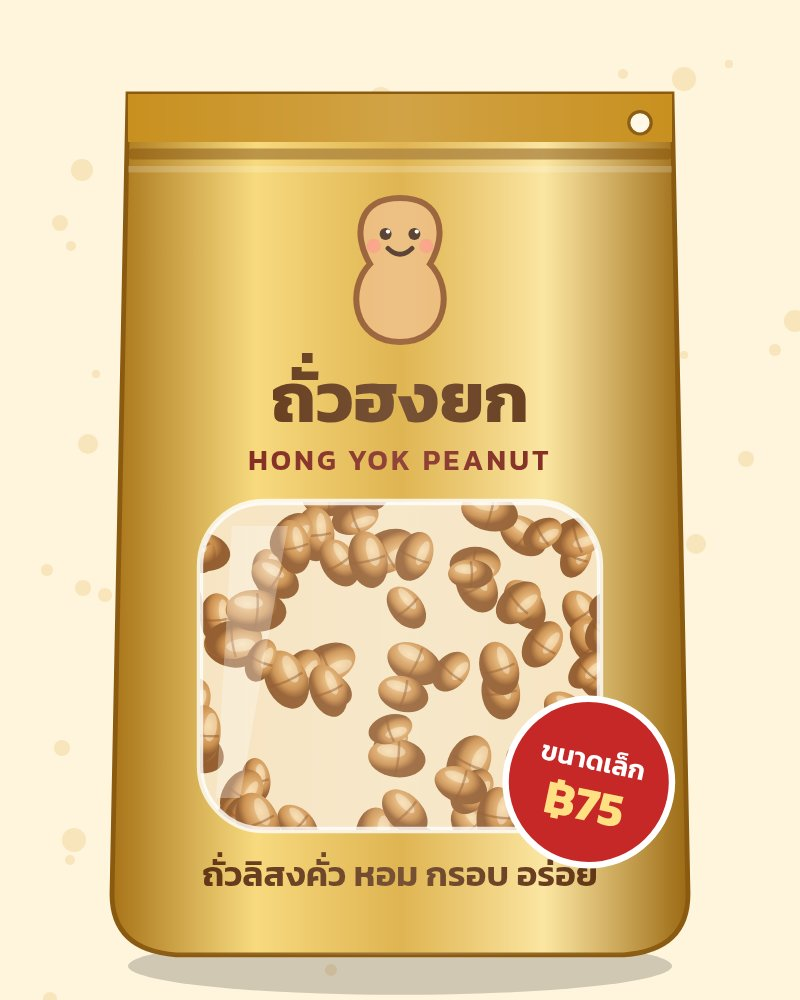
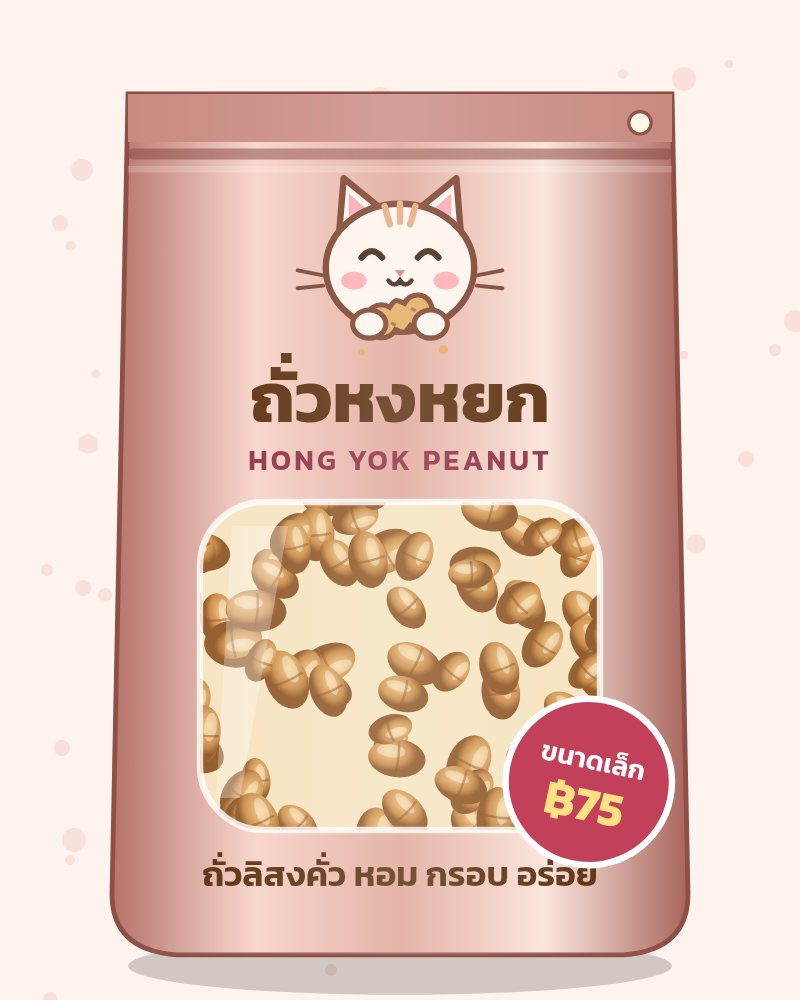
Rebrand ถั่วหงหยก, cat mascot, rose gold

diff --git a/index.html b/index.html
@@ -1,28 +1,28 @@
 <!doctype html><html lang="th"><head><meta charset="utf-8"><meta name="viewport" content="width=device-width,initial-scale=1">
-<title>ถั่วฮงยก · Hong Yok Peanut</title><meta property="og:title" content="ถั่วฮงยก · Hong Yok Peanut"><meta property="og:image" content="img/social-1080.jpg">
+<link rel="icon" href="img/favicon.png"><title>ถั่วหงหยก · Hong Yok Peanut</title><meta property="og:title" content="ถั่วหงหยก · Hong Yok Peanut"><meta property="og:image" content="img/social-1080.jpg">
 <style>
 @font-face{font-family:K;src:url(fonts/Kanit-Regular.ttf);font-display:swap}@font-face{font-family:K;font-weight:600;src:url(fonts/Kanit-SemiBold.ttf);font-display:swap}@font-face{font-family:K;font-weight:700;src:url(fonts/Kanit-Bold.ttf);font-display:swap}
-*{box-sizing:border-box}body{margin:0;font-family:K,sans-serif;background:#fff6e3;color:#4a250c;padding-bottom:90px}
-.w{max-width:480px;margin:auto;padding:0 16px}header{background:linear-gradient(#ffe6a8,#fff6e3);text-align:center;padding:18px 0 8px}
-h1{margin:6px 0 0;font-size:34px}.en{color:#a3241a;letter-spacing:3px;font-weight:600;font-size:14px}.tag{font-size:19px;margin:6px 0 10px}
-.hero{width:100%;height:auto;border-radius:20px;box-shadow:0 6px 18px #a0702033}h2{font-size:22px;margin:26px 0 10px}
-.card{display:flex;gap:12px;background:#fff;border-radius:18px;padding:12px;margin-bottom:12px;box-shadow:0 3px 10px #b07a2a22;align-items:center}
-.card img{width:96px;height:120px;object-fit:cover;border-radius:12px}.card .i{flex:1}.card b{font-size:18px}.pr{color:#c62828;font-size:22px;font-weight:700}
-.qty{display:flex;align-items:center;gap:8px;margin-top:6px}.qty button{width:44px;height:44px;border-radius:50%;border:0;background:#e9b13d;color:#4a250c;font:700 24px K}.qty span{min-width:26px;text-align:center;font-size:20px}
-.chips{display:flex;gap:8px;flex-wrap:wrap}.chip{padding:10px 14px;border-radius:30px;border:2px solid #e9b13d;background:#fff;font:16px K;color:#4a250c}.chip.on{background:#e9b13d}
-.note{font-size:13px;color:#8a6a4a}label{display:block;margin:10px 0 4px;font-weight:600}input,textarea{width:100%;padding:12px;border-radius:12px;border:2px solid #ecd2a0;font:16px K;background:#fff}
-.opt{display:flex;gap:8px}.opt label{flex:1;margin:0;background:#fff;border:2px solid #ecd2a0;border-radius:12px;padding:12px;font-weight:400}.opt input{width:auto}
-.box{background:#fff;border-radius:18px;padding:14px;box-shadow:0 3px 10px #b07a2a22}
+*{box-sizing:border-box}body{margin:0;font-family:K,sans-serif;background:#fff4f0;color:#5a2d1c;padding-bottom:90px}
+.w{max-width:480px;margin:auto;padding:0 16px}header{background:linear-gradient(#f9d6cf,#fff4f0);text-align:center;padding:18px 0 8px}
+h1{margin:6px 0 0;font-size:34px}.en{color:#8e2d45;letter-spacing:3px;font-weight:600;font-size:14px}.tag{font-size:19px;margin:6px 0 10px}
+.hero{width:100%;height:auto;border-radius:20px;box-shadow:0 6px 18px #a0605a33}h2{font-size:22px;margin:26px 0 10px}
+.card{display:flex;gap:12px;background:#fff;border-radius:18px;padding:12px;margin-bottom:12px;box-shadow:0 3px 10px #b0655a22;align-items:center}
+.card img{width:96px;height:120px;object-fit:cover;border-radius:12px}.card .i{flex:1}.card b{font-size:18px}.pr{color:#c2405a;font-size:22px;font-weight:700}
+.qty{display:flex;align-items:center;gap:8px;margin-top:6px}.qty button{width:44px;height:44px;border-radius:50%;border:0;background:#e3a596;color:#5a2d1c;font:700 24px K}.qty span{min-width:26px;text-align:center;font-size:20px}
+.chips{display:flex;gap:8px;flex-wrap:wrap}.chip{padding:10px 14px;border-radius:30px;border:2px solid #e3a596;background:#fff;font:16px K;color:#5a2d1c}.chip.on{background:#e3a596}
+.note{font-size:13px;color:#8a6a4a}label{display:block;margin:10px 0 4px;font-weight:600}input,textarea{width:100%;padding:12px;border-radius:12px;border:2px solid #efc7bf;font:16px K;background:#fff}
+.opt{display:flex;gap:8px}.opt label{flex:1;margin:0;background:#fff;border:2px solid #efc7bf;border-radius:12px;padding:12px;font-weight:400}.opt input{width:auto}
+.box{background:#fff;border-radius:18px;padding:14px;box-shadow:0 3px 10px #b0655a22}
 .btn{display:block;width:100%;padding:15px;border:0;border-radius:30px;font:600 18px K;margin-top:10px;text-align:center;text-decoration:none}
-.red{background:#c62828;color:#fff}.line{background:#06c755;color:#fff}.gray{background:#f1dfbb;color:#4a250c}
-.bar{position:fixed;left:0;right:0;bottom:0;background:#4a250c;color:#fff;padding:10px 16px;display:flex;justify-content:space-between;align-items:center;z-index:9}
-.bar a{background:#e9b13d;color:#4a250c;padding:12px 20px;border-radius:30px;text-decoration:none;font-weight:600}
+.red{background:#c2405a;color:#fff}.line{background:#06c755;color:#fff}.gray{background:#f6dcd5;color:#5a2d1c}
+.bar{position:fixed;left:0;right:0;bottom:0;background:linear-gradient(90deg,#8e5047,#b5736a);color:#fff;padding:10px 16px;display:flex;justify-content:space-between;align-items:center;z-index:9}
+.bar a{background:#e3a596;color:#5a2d1c;padding:12px 20px;border-radius:30px;text-decoration:none;font-weight:600}
 .why{display:grid;grid-template-columns:1fr 1fr;gap:10px}.why div{background:#fff;border-radius:16px;padding:12px;text-align:center}
 .rv{background:#fff;border-radius:16px;padding:12px;margin-bottom:8px}details{background:#fff;border-radius:14px;padding:12px;margin-bottom:8px}summary{font-weight:600}
-pre{white-space:pre-wrap;font:15px K;background:#fff8ea;padding:10px;border-radius:12px}.qr{width:150px;height:150px;margin:8px auto;border:3px dashed #c62828;display:flex;align-items:center;justify-content:center;text-align:center;border-radius:12px}
+pre{white-space:pre-wrap;font:15px K;background:#fff6f3;padding:10px;border-radius:12px}.qr{width:150px;height:150px;margin:8px auto;border:3px dashed #c2405a;display:flex;align-items:center;justify-content:center;text-align:center;border-radius:12px}
 footer{text-align:center;font-size:13px;color:#8a6a4a;padding:20px}
 </style></head><body>
-<header><div class="w"><h1>🥜 ถั่วฮงยก</h1><div class="en">HONG YOK PEANUT</div><p class="tag">ถั่วอร่อย เคี้ยวเพลิน หยิบได้ทั้งวัน</p><img class="hero" src="img/hero.jpg" alt="ถั่วฮงยก 3 ขนาด" width="1200" height="900"></div></header>
+<header><div class="w"><img src="img/logo.png" alt="" width="96" height="96" style="display:block;margin:auto"><h1>ถั่วหงหยก</h1><div class="en">HONG YOK PEANUT</div><p class="tag">ถั่วอร่อย เคี้ยวเพลิน หยิบได้ทั้งวัน</p><img class="hero" src="img/hero.jpg" alt="ถั่วหงหยก 3 ขนาด" width="1200" height="900"></div></header>
 <main class="w">
 <h2>เลือกขนาดได้เลย 👇</h2><div id="prods"></div>
 <h2>เลือกรสชาติ <span class="note">(ตัวอย่าง)</span></h2><div class="chips" id="flv"></div>
@@ -38,14 +38,14 @@ footer{text-align:center;font-size:13px;color:#8a6a4a;padding:20px}
 <div id="sum" class="box" style="display:none;margin-top:14px"><h2 style="margin-top:0">สรุปคำสั่งซื้อ ✅</h2><pre id="txt"></pre>
 <a class="btn line" id="lsh" target="_blank">ส่งออเดอร์ทาง LINE</a><a class="btn line" style="background:#04a648" href="https://line.me/R/ti/p/@YOUR_LINE_ID" target="_blank">แอดไลน์ร้าน @YOUR_LINE_ID</a><button class="btn gray" onclick="cp()">📋 คัดลอกข้อความออเดอร์</button>
 <p class="note">ส่งข้อความนี้ให้ร้านทาง LINE แล้วรอร้านยืนยันยอดและค่าส่งนะคะ · สินค้าใน TikTok Shop ใช้รูปและราคาเดียวกันนี้</p></div>
-<h2>ทำไมต้องถั่วฮงยก?</h2><div class="why"><div>🔥<br>คั่วใหม่ทุกวัน</div><div>🏡<br>สูตรทำเองที่บ้าน</div><div>😋<br>หอม กรอบ มัน</div><div>🛍<br>ถุงซิปล็อก เก็บง่าย</div></div>
+<h2>ทำไมต้องถั่วหงหยก?</h2><div class="why"><div>🔥<br>คั่วใหม่ทุกวัน</div><div>🏡<br>สูตรทำเองที่บ้าน</div><div>😋<br>หอม กรอบ มัน</div><div>🛍<br>ถุงซิปล็อก เก็บง่าย</div></div>
 <h2>รีวิวจากลูกค้า <span class="note">(ตัวอย่าง)</span></h2>
 <div class="rv">⭐⭐⭐⭐⭐ “กรอบมาก กินเพลินจนหมดถุง” — คุณเอ</div><div class="rv">⭐⭐⭐⭐⭐ “ถุงทองสวย ซื้อเป็นของฝากได้เลย” — คุณบี</div><div class="rv">⭐⭐⭐⭐⭐ “หอมเกลือกำลังดี ไม่เค็มเกิน” — คุณแนน</div>
 <h2>คำถามที่พบบ่อย <span class="note">(ตัวอย่าง)</span></h2>
 <details><summary>เก็บได้นานแค่ไหน?</summary>ปิดซิปให้สนิท เก็บในที่แห้ง ประมาณ ___ เดือน</details>
 <details><summary>ส่งกี่วันถึง?</summary>ส่งภายใน 1–2 วันทำการ ค่าส่งร้านจะแจ้งอีกครั้ง</details>
 <details><summary>สั่งจำนวนมาก/ของชำร่วยได้ไหม?</summary>ได้เลย ทักไลน์ร้านเพื่อขอราคาพิเศษ</details>
-</main><footer>© ถั่วฮงยก · Hong Yok Peanut — เว็บตัวอย่าง (Mockup)</footer>
+</main><footer>© ถั่วหงหยก · Hong Yok Peanut — เว็บตัวอย่าง (Mockup)</footer>
 <div class="bar"><div><span id="cnt">0</span> ถุง · <b>฿<span id="tot">0</span></b></div><a href="#checkout">ไปสั่งซื้อ</a></div>
 <script>
 const P=[{id:'s',n:'ขนาดเล็ก',img:'img/bag-s.jpg',p:75},{id:'m',n:'ขนาดกลาง',img:'img/bag-m.jpg',p:140},{id:'l',n:'ขนาดใหญ่',img:'img/bag-l.jpg',p:250}],q={s:0,m:0,l:0},F=['คั่วเกลือ','อบเนย','สมุนไพร'];let f='คั่วเกลือ';
@@ -56,7 +56,7 @@ document.querySelectorAll('[name=pay]').forEach(r=>r.onchange=()=>qrb.style.disp
 function order(){let t=0,l=P.filter(x=>q[x.id]).map(x=>{t+=q[x.id]*x.p;return`• ${x.n} x${q[x.id]} = ฿${q[x.id]*x.p}`});
 if(!l.length){alert('กรุณาเลือกสินค้าอย่างน้อย 1 ถุงนะคะ');return}if(!nm.value||!ph.value){alert('กรุณากรอกชื่อและเบอร์โทรค่ะ');return}
 const v=n=>document.querySelector(`[name=${n}]:checked`).value;
-const s=`🥜 ออเดอร์ถั่วฮงยก\n${l.join('\n')}\nรสชาติ: ${f}\nรวม: ฿${t} (ยังไม่รวมค่าส่ง)\n\nชื่อ: ${nm.value}\nโทร: ${ph.value}\nรับสินค้า: ${v('dl')}${v('dl')=='จัดส่ง'?'\nที่อยู่: '+ad.value:''}\nชำระเงิน: ${v('pay')}${nt.value?'\nหมายเหตุ: '+nt.value:''}`;
+const s=`🥜 ออเดอร์ถั่วหงหยก\n${l.join('\n')}\nรสชาติ: ${f}\nรวม: ฿${t} (ยังไม่รวมค่าส่ง)\n\nชื่อ: ${nm.value}\nโทร: ${ph.value}\nรับสินค้า: ${v('dl')}${v('dl')=='จัดส่ง'?'\nที่อยู่: '+ad.value:''}\nชำระเงิน: ${v('pay')}${nt.value?'\nหมายเหตุ: '+nt.value:''}`;
 txt.textContent=s;lsh.href='https://line.me/R/share?text='+encodeURIComponent(s);sum.style.display='block';sum.scrollIntoView({behavior:'smooth'})}
 function cp(){const s=txt.textContent;(navigator.clipboard?navigator.clipboard.writeText(s):Promise.reject()).then(()=>alert('คัดลอกแล้ว ✅')).catch(()=>{const a=document.createElement('textarea');a.value=s;document.body.appendChild(a);a.select();document.execCommand('copy');a.remove();alert('คัดลอกแล้ว ✅')})}
 </script></body></html>
